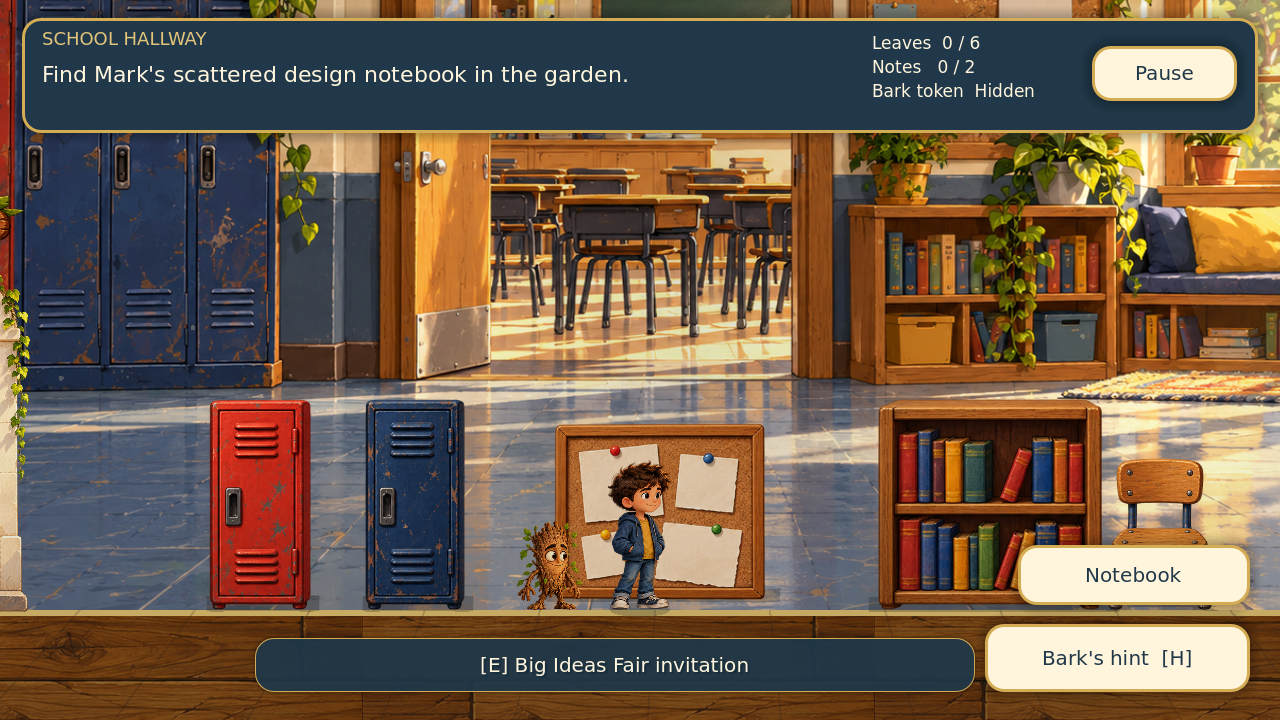
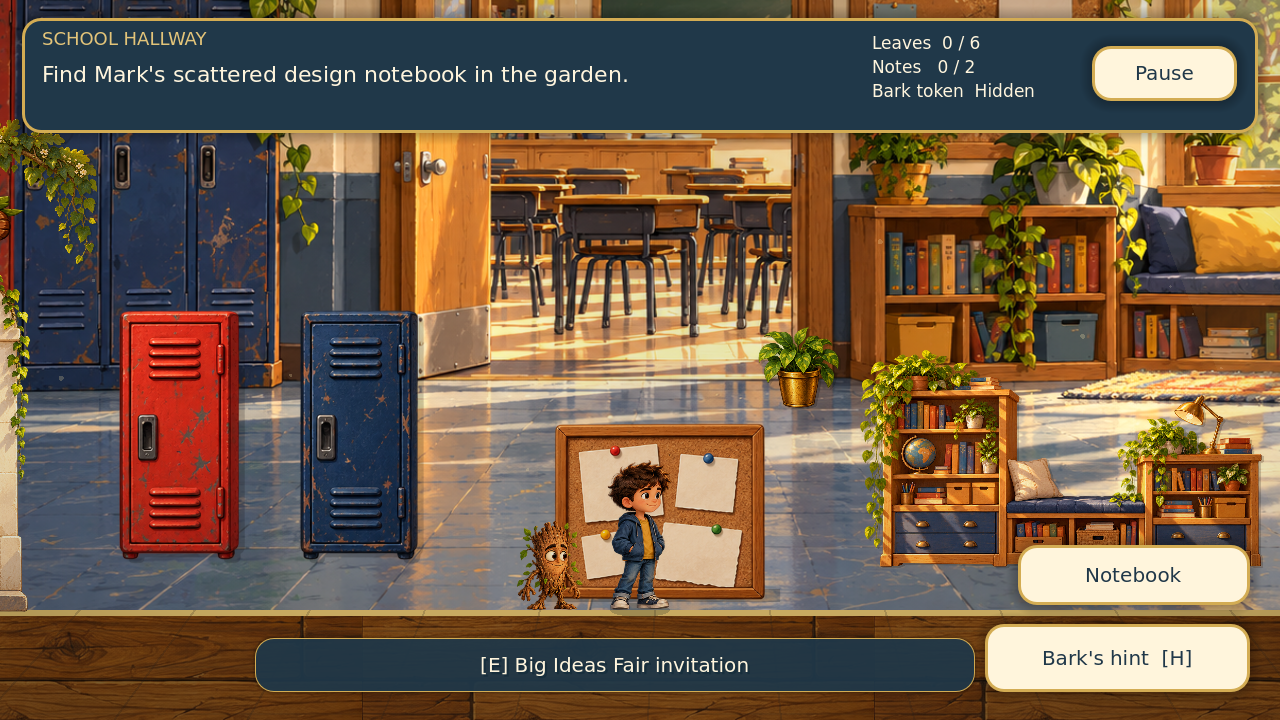
Add reviewed cinematic previews and verified import-ready archive instructions

diff --git a/README.md b/README.md
@@ -17,6 +17,8 @@ A 28-second skippable campus film opens a first adventure. Choose **Watch the ca
 
 New high-resolution transparent art adds an oak invention blackboard, a reading-nook cabinet and leafy canopy framing. Rear lockers, furniture, plants and near leaves have separate parallax speeds and cast shadows. Warm dust-lit shafts, a restrained world-only highlight glow and colour finish, gentle character breathing, and soft landing squash/dust enrich the stages. UI stays crisp above the world shader. Reduced motion fixes the film camera and disables scenery drift, animated dust and landing effects. This remains a 2D game with layered depth and the original character identities and pivots.
 
+![Campus film](docs/previews/campus_film.png)
+
 See [cinematic edition notes](docs/CINEMATIC_EDITION.md). New art and the recorded generation prompts are included in this editable project.
 
 ## Visual overhaul and room travel
